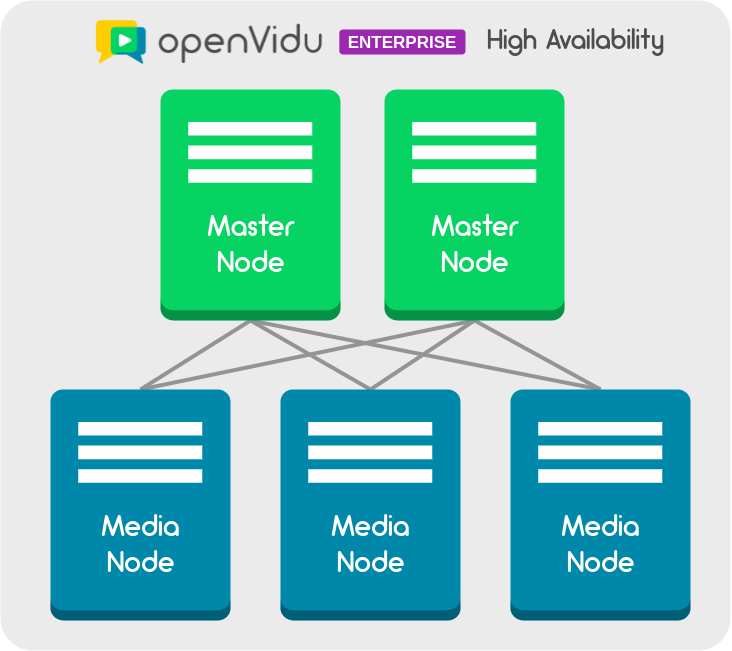
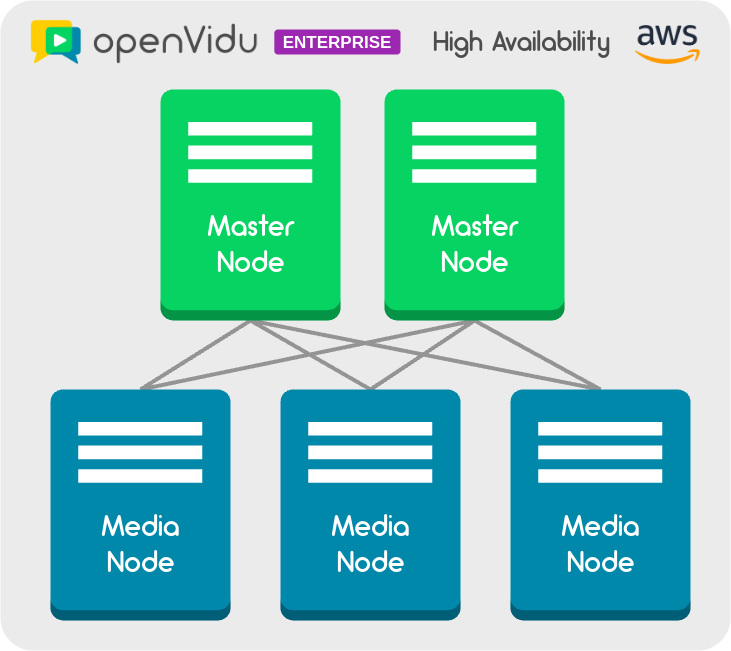
Update pricing

diff --git a/pricing.html b/pricing.html
@@ -384,19 +384,24 @@ top-subtitle: Choose your preferred tier according to your needs
                 <span>OpenVidu <div id="openvidu-pro-tag" style="font-family: Montserrat, sans-serif; pointer-events: none; display: inline-block; margin-right: 6px; background-color: #0088aa; color: white; font-weight: bold; padding: 0px 5px; margin-left: 4px; border-radius: 3px; font-size: 18px; line-height:26px">
                     PRO</div></span> and <span>OpenVidu <div id="openvidu-pro-tag"
                     style="font-family: Montserrat, sans-serif; pointer-events: none; display: inline-block; margin-right: 6px; background-color: #9c27b0; color: white; font-weight: bold; padding: 0px 5px; margin-left: 4px; border-radius: 3px; font-size: 18px; line-height:26px">
-                    ENTERPRISE</div></span> are deployed as a cluster following a Master-Worker model. Below are some examples of OpenVidu clusters.
+                    ENTERPRISE</div></span> are deployed as a cluster following a Master-Worker model or as unique nodes.
+                    Below are some examples of OpenVidu clusters.
 
                 <div class="row price-row" style="margin: 40px 0 40px 0">
-                    <div class="col-md-4 col-xs-12">
+                    <div class="col-md-3 col-xs-12">
                         <img class="pricing-cluster-img" src="/img/pricing/pro-architecture.png"/>
                         <div style="font-size: 14px; margin: 10px; text-align: center;">OpenVidu Pro cluster with 1 Master Node and 3 Media Nodes</div>
                     </div>
-                    <div class="col-md-4 col-xs-12">
+                    <div class="col-md-3 col-xs-12">
                         <img class="pricing-cluster-img" src="/img/pricing/enterprise-no-ha-architecture.png"/>
                         <div style="font-size: 14px; margin: 10px; text-align: center;">OpenVidu Enterprise cluster with 1 Master Node and 3 Media Nodes</div>
                     </div>
-                    <div class="col-md-4 col-xs-12">
+                    <div class="col-md-3 col-xs-12">
                         <img class="pricing-cluster-img" src="/img/pricing/enterprise-ha-architecture.png"/>
+                        <div style="font-size: 14px; margin: 10px; text-align: center;">OpenVidu Enterprise cluster with 2 Master Nodes and 3 Media Nodes</div>
+                    </div>
+                    <div class="col-md-3 col-xs-12">
+                        <img class="pricing-cluster-img" src="/img/pricing/enterprise-ha-onprem.png"/>
                         <div style="font-size: 14px; margin: 10px; text-align: center;">OpenVidu Enterprise cluster with 2 Master Nodes and 3 Media Nodes</div>
                     </div>
                 </div>
@@ -679,7 +684,7 @@ top-subtitle: Choose your preferred tier according to your needs
                 <hr>
                 <div class="row price-row">
                     <div class="col-sm-6 col-xs-12">
-                        <h4 style="text-align: left">OpenVidu Enterprise HA cluster with 12 cores in total</h4>
+                        <h4 style="text-align: left">OpenVidu Enterprise HA cluster (AWS) with 12 cores in total</h4>
                         <span>OpenVidu Enterprise HA (<a href="https://docs.openvidu.io/en/stable/openvidu-enterprise/high-availability/">High Availability</a>)
                             provides Master Node replication. This ensures load balancing for clients and advanced fault tolerance, getting rid of any single
                             point of failure. <br><br>
@@ -724,6 +729,59 @@ top-subtitle: Choose your preferred tier according to your needs
                     </div>
                     <div class="col-sm-6 col-xs-12 feature-img-col">
                         <img class="pricing-cluster-img" src="/img/pricing/pricing-enterprise-ha.png" />
+                    </div>
+                </div>
+                <hr>
+                <div class="row price-row">
+                    <div class="col-sm-6 col-xs-12">
+                        <h4 style="text-align: left">OpenVidu Enterprise HA cluster (On premises) with 16 cores in total</h4>
+                        <span>OpenVidu Enterprise HA On-Premises offers a robust solution for deploying the
+                            <a href="https://docs.openvidu.io/en/stable/openvidu-enterprise/high-availability/">High Availability</a> version of OpenVidu
+                            on your own infrastructure. The architecture of the system is simplified by merging Master Nodes and Media Nodes into one,
+                            facilitating an easier setup and scaling process. This single node setup ensures load balancing, advanced fault tolerance,
+                            and eliminates any single points of failure, enhancing system reliability and uptime.
+                            <br><br>
+
+                            <table class="table table-striped table-pricing" style="background: #e7e7e7; margin-bottom: 12px;">
+                                <thead>
+                                    <tr>
+                                        <th scope="col" style="border-bottom: 2px solid #005f76;"></th>
+                                        <th scope="col" style="border-bottom: 2px solid #005f76;"><div id="openvidu-pro-tag"
+                                            style="font-family: Montserrat, sans-serif; pointer-events: none; display: inline-block; margin-right: 6px; background-color: #9c27b0; color: white; font-weight: bold; padding: 0px 5px; margin-left: 4px; border-radius: 3px; font-size: 18px; line-height:26px">
+                                            ENTERPRISE</div></th>
+                                    </tr>
+                                </thead>
+                                <tbody>
+                                    <tr>
+                                        <th>Number of media streams</th>
+                                        <td>8000</td>
+                                    </tr>
+                                    <tr>
+                                        <th>Number of sessions with 5 participants</th>
+                                        <td>320</td>
+                                    </tr>
+                                    <tr>
+                                        <th>8 hours</th>
+                                        <td>$13.82 <i class="icon ion-information-circled pricing-table-icon-info icon-info-right" data-toggle="tooltip"
+                                            data-container="body" data-placement="right" title="8 hours * 60 minutes/hour * 12 cores * $0.0018 = 10.37"></td>
+                                    </tr>
+                                    <tr>
+                                        <th>24 hours <span style="font-weight: normal">(1 day of uninterrupted use)</span></th>
+                                        <td>$41.47 <i class="icon ion-information-circled pricing-table-icon-info icon-info-right" data-toggle="tooltip"
+                                            data-container="body" data-placement="right" title="24 hours * 60 minutes/hour * 12 cores * $0.0018 = 31.10"></td>
+                                    </tr>
+                                    <tr>
+                                        <th>720 hours <span style="font-weight: normal">(1 month of uninterrupted use)</span></th>
+                                        <td>$1244.16 <i class="icon ion-information-circled pricing-table-icon-info icon-info-right" data-toggle="tooltip"
+                                            data-container="body" data-placement="right" title="720 hours * 60 minutes/hour * 12 cores * $0.0018 = 933.12"></td>
+                                    </tr>
+                                </tbody>
+                            </table>
+
+                        </span>
+                    </div>
+                    <div class="col-sm-6 col-xs-12 feature-img-col">
+                        <img class="pricing-cluster-img" src="/img/pricing/pricing-enterprise-ha-onprem.png" />
                     </div>
                 </div>
                 <hr>
@@ -851,7 +909,8 @@ top-subtitle: Choose your preferred tier according to your needs
                                 <th scope="col" style="border-bottom: 2px solid #005f76;" colspan="2" class="table-pricing-bordered">6 cores</th>
                                 <th scope="col" style="border-bottom: 2px solid #005f76;" colspan="2" class="table-pricing-bordered">10 cores</th>
                                 <th scope="col" style="border-bottom: 2px solid #005f76;" colspan="2" class="table-pricing-bordered">18 cores</th>
-                                <th scope="col" style="border-bottom: 2px solid #005f76;" colspan="2" class="table-pricing-bordered">12 cores <a href="https://docs.openvidu.io/en/stable/openvidu-enterprise/high-availability/" target="_blank">HA</a></th>
+                                <th scope="col" style="border-bottom: 2px solid #005f76;" colspan="2" class="table-pricing-bordered">12 cores <a href="https://docs.openvidu.io/en/stable/openvidu-enterprise/high-availability/" target="_blank">HA</a> AWS</th>
+                                <th scope="col" style="border-bottom: 2px solid #005f76;" colspan="2" class="table-pricing-bordered">16 cores <a href="https://docs.openvidu.io/en/stable/openvidu-enterprise/high-availability/" target="_blank">HA</a> On premises</th>
                                 <th scope="col" style="border-bottom: 2px solid #005f76;" colspan="2">Variable number of cores *</th>
                             </tr>
                         </thead>
@@ -865,6 +924,7 @@ top-subtitle: Choose your preferred tier according to your needs
                                 <td><div id="openvidu-pro-tag" style="font-family: Montserrat, sans-serif; pointer-events: none; display: inline-block; margin-right: 6px; background-color: #0088aa; color: white; font-weight: bold; padding: 0px 5px; margin-left: 4px; border-radius: 3px; font-size: 18px; line-height:26px">PRO</div></td>
                                 <td class="table-pricing-bordered"><div id="openvidu-pro-tag" style="font-family: Montserrat, sans-serif; pointer-events: none; display: inline-block; margin-right: 6px; background-color: #9c27b0; color: white; font-weight: bold; padding: 0px 5px; margin-left: 4px; border-radius: 3px; font-size: 18px; line-height:26px">ENTERPRISE</div></td>
                                 <td colspan="2" class="table-pricing-bordered"><div id="openvidu-pro-tag" style="font-family: Montserrat, sans-serif; pointer-events: none; display: inline-block; margin-right: 6px; background-color: #9c27b0; color: white; font-weight: bold; padding: 0px 5px; margin-left: 4px; border-radius: 3px; font-size: 18px; line-height:26px">ENTERPRISE</div></td>
+                                <td colspan="2" class="table-pricing-bordered"><div id="openvidu-pro-tag" style="font-family: Montserrat, sans-serif; pointer-events: none; display: inline-block; margin-right: 6px; background-color: #9c27b0; color: white; font-weight: bold; padding: 0px 5px; margin-left: 4px; border-radius: 3px; font-size: 18px; line-height:26px">ENTERPRISE</div></td>
                                 <td><div id="openvidu-pro-tag" style="font-family: Montserrat, sans-serif; pointer-events: none; display: inline-block; margin-right: 6px; background-color: #0088aa; color: white; font-weight: bold; padding: 0px 5px; margin-left: 4px; border-radius: 3px; font-size: 18px; line-height:26px">PRO</div></td>
                                 <td><div id="openvidu-pro-tag" style="font-family: Montserrat, sans-serif; pointer-events: none; display: inline-block; margin-right: 6px; background-color: #9c27b0; color: white; font-weight: bold; padding: 0px 5px; margin-left: 4px; border-radius: 3px; font-size: 18px; line-height:26px">ENTERPRISE</div></td>
                             </tr>
@@ -877,6 +937,7 @@ top-subtitle: Choose your preferred tier according to your needs
                                 <td>1600</td>
                                 <td class="table-pricing-bordered">8000</td>
                                 <td colspan="2" class="table-pricing-bordered">4000</td>
+                                <td colspan="2" class="table-pricing-bordered">8000</td>
                                 <td><span style="white-space: nowrap">400 - 2000</span></td>
                                 <td><span style="white-space: nowrap">2000 - 10000</span></td>
                             </tr>
@@ -889,6 +950,7 @@ top-subtitle: Choose your preferred tier according to your needs
                                 <td>64</td>
                                 <td class="table-pricing-bordered">320</td>
                                 <td colspan="2" class="table-pricing-bordered">160</td>
+                                <td colspan="2" class="table-pricing-bordered">320</td>
                                 <td><span style="white-space: nowrap">16 - 80</span></td>
                                 <td><span style="white-space: nowrap">80 - 400</span></td>
                             </tr>
@@ -901,6 +963,7 @@ top-subtitle: Choose your preferred tier according to your needs
                                 <td>$5.18</td>
                                 <td class="table-pricing-bordered">$15.55</td>
                                 <td colspan="2" class="table-pricing-bordered">$10.37</td>
+                                <td colspan="2" class="table-pricing-bordered">$13.82</td>
                                 <td><span style="white-space: nowrap">$1.73 - $6.33</span></td>
                                 <td><span style="white-space: nowrap">$5.18 - $29.36</span></td>
                             </tr>
@@ -913,6 +976,7 @@ top-subtitle: Choose your preferred tier according to your needs
                                 <td>$15.55</td>
                                 <td class="table-pricing-bordered">$46.66</td>
                                 <td colspan="2" class="table-pricing-bordered">$31.10</td>
+                                <td colspan="2" class="table-pricing-bordered">$41.47</td>
                                 <td><span style="white-space: nowrap">$9.79</span></td>
                                 <td><span style="white-space: nowrap">$29.36</span></td>
                             </tr>
@@ -925,6 +989,7 @@ top-subtitle: Choose your preferred tier according to your needs
                                 <td>$466.56</td>
                                 <td class="table-pricing-bordered">$1399.68</td>
                                 <td colspan="2" class="table-pricing-bordered">$933.12</td>
+                                <td colspan="2" class="table-pricing-bordered">$1244.16</td>
                                 <td><span style="white-space: nowrap">$293.7</span></td>
                                 <td><span style="white-space: nowrap">$881.1</span></td>
                             </tr>
